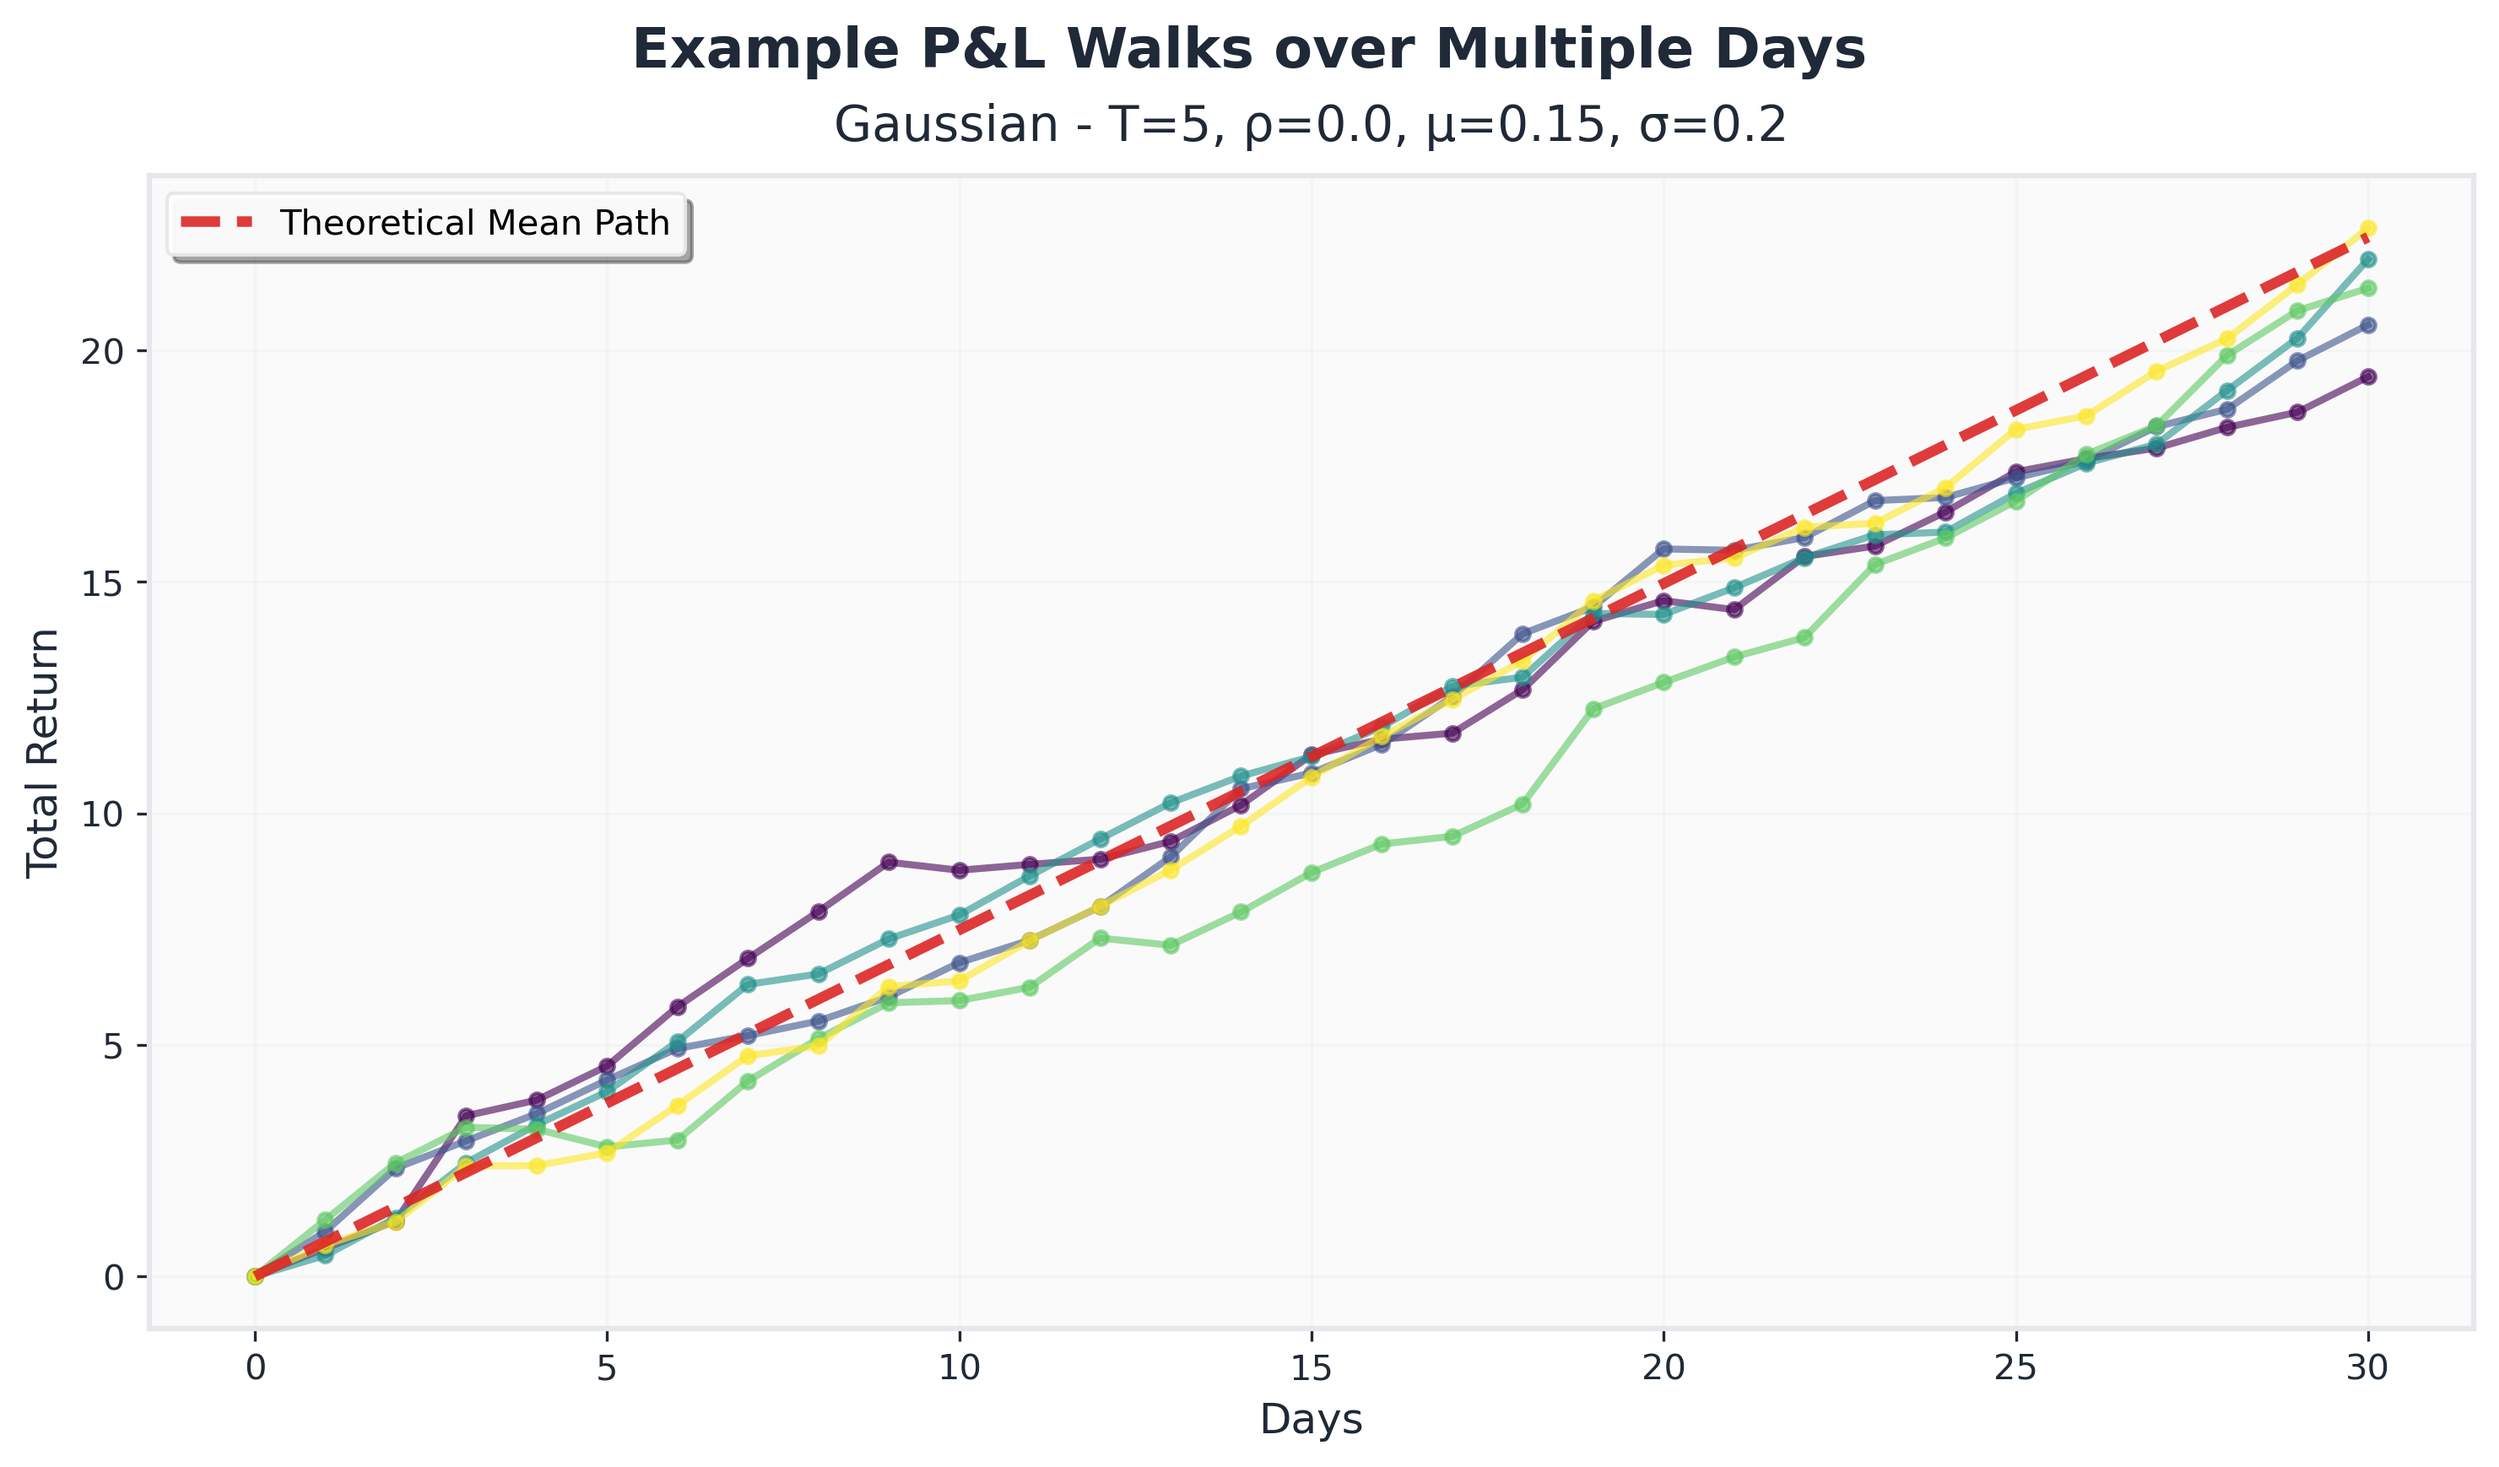
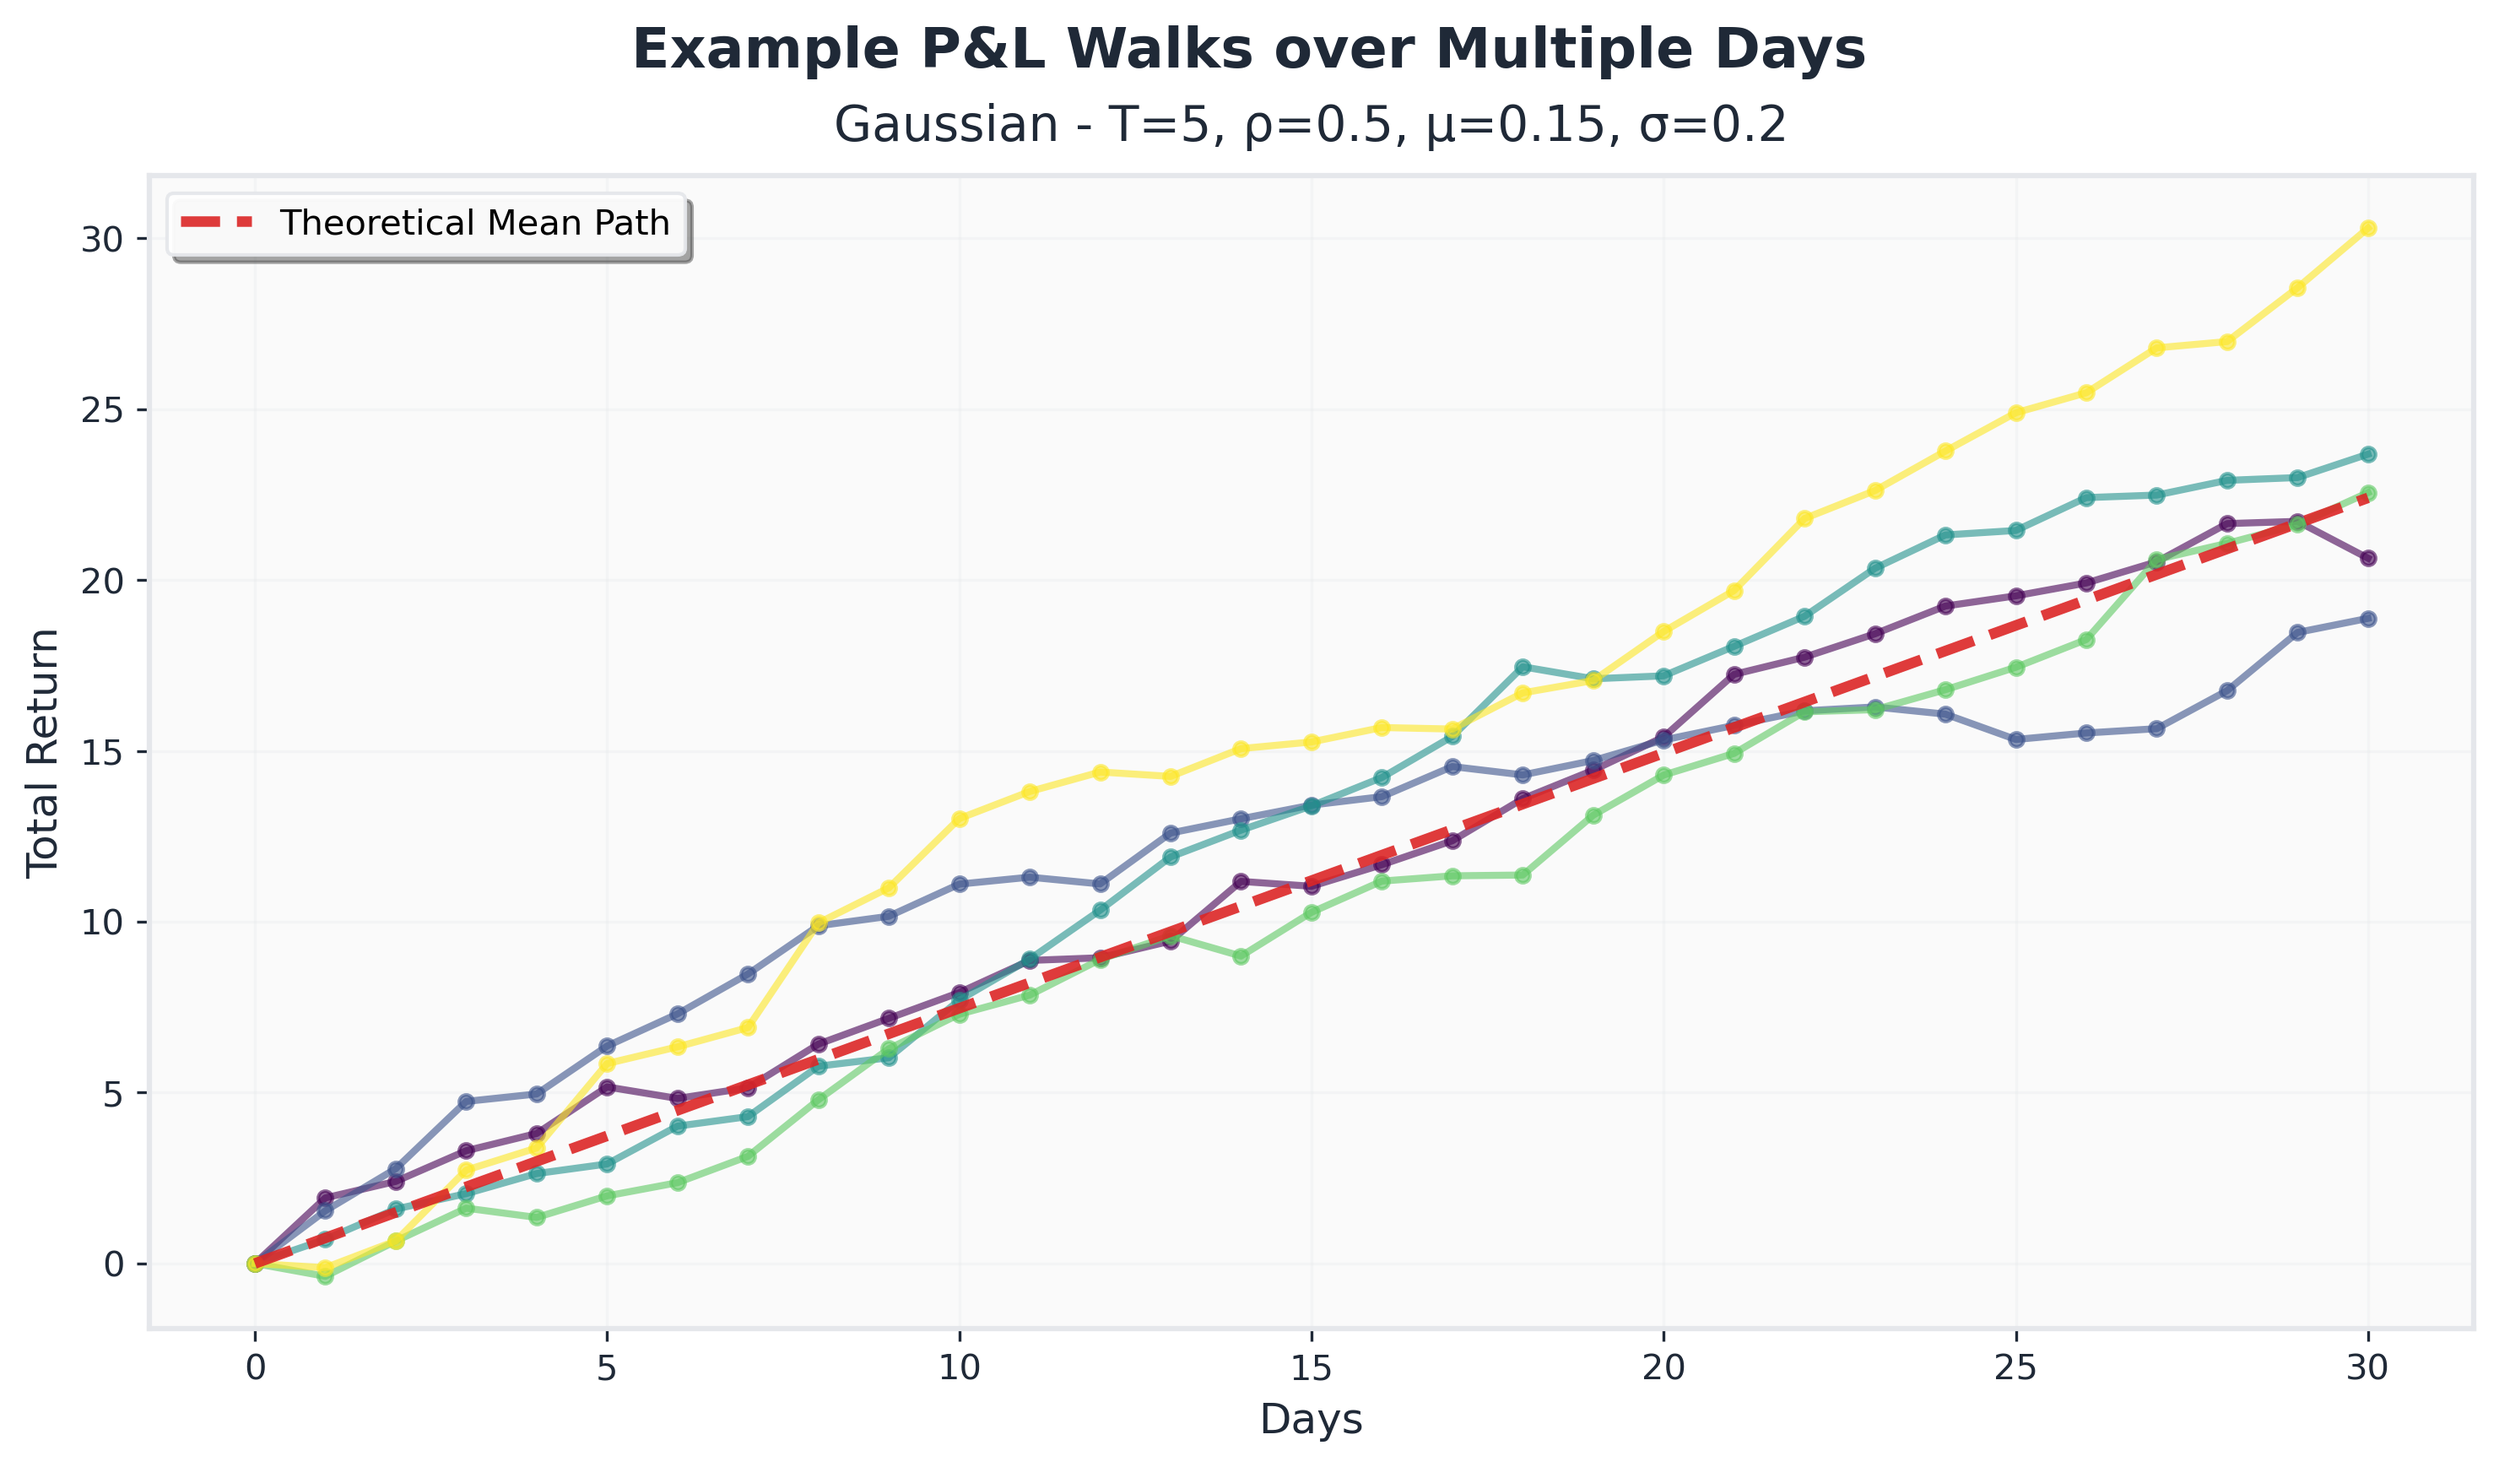
new graphs for presentation

diff --git a/graphs/walk_days.py b/graphs/walk_days.py
@@ -42,7 +42,7 @@ T = 5                          # Number of days for multi-day VaR
 dist = "gaussian"              # Distribution: "gaussian", "student-t", "skewnorm"
 df = 3                         # Degrees of freedom for Student-t
 skew_alpha = 7.0               # Skew parameter for skew-normal
-rho = 0.0                      # AR(1) correlation coefficient
+rho = 0.5                      # AR(1) correlation coefficient
 
 
 SAMPLE_COUNT = 5
